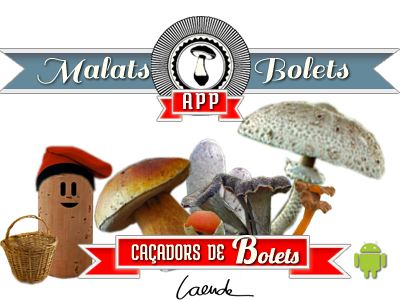
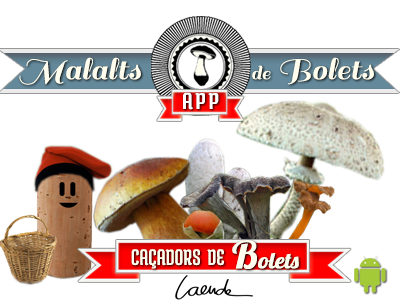
Fix image and version

diff --git a/js/functions.js b/js/functions.js
@@ -32,5 +32,5 @@ function urldecode (str) {
     return decodeURIComponent((str + '').replace(/\+/g, '%20'));
 }
 
-var VERSION = "0.3";
+var VERSION = "0.4";
 
